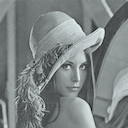
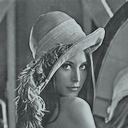
Black and white tweaks.
- Smoother behavior.
- Curves instead of affine transforms.
- Tests.
- Inner frame movement.

diff --git a/LTKit/LTKit/LTBWTonalityProcessor.mm b/LTKit/LTKit/LTBWTonalityProcessor.mm
@@ -3,24 +3,40 @@
 
 #import "LTBWTonalityProcessor.h"
 
-#import "LTBoxFilterProcessor.h"
+#import "LTBilateralFilterProcessor.h"
 #import "LTCGExtensions.h"
 #import "LTColorGradient.h"
 #import "LTGLKitExtensions.h"
+#import "LTOpenCVExtensions.h"
 #import "LTProgram.h"
 #import "LTShaderStorage+LTBWTonalityFsh.h"
 #import "LTShaderStorage+LTPassthroughShaderVsh.h"
 #import "LTTexture+Factory.h"
+#import "NSBundle+LTKitBundle.h"
 
 @interface LTGPUImageProcessor ()
 @property (strong, nonatomic) NSDictionary *auxiliaryTextures;
 @end
 
+@interface LTBWTonalityProcessor ()
+// Texture that holds LUT that encapsulates brightess, contrast, exposure and structure.
+@property (strong, nonatomic) LTTexture *toneLUT;
+@end
+
 @implementation LTBWTonalityProcessor
 
-static const CGFloat kSmoothDownsampleFactor = 6.0;
+// The follow matrices hold the curves data.
+static cv::Mat1b kIdentityCurve;
+static cv::Mat1b kPositiveBrightnessCurve;
+static cv::Mat1b kNegativeBrightnessCurve;
+static cv::Mat1b kPositiveContrastCurve;
+static cv::Mat1b kNegativeContrastCurve;
+
+static const CGFloat kSmoothDownsampleFactor = 4.0;
 
 static const GLKVector3 kColorFilterDefault = GLKVector3Make(0.299, 0.587, 0.114);
+
+static const ushort kLutSize = 256;
 
 - (instancetype)initWithInput:(LTTexture *)input output:(LTTexture *)output {
   LTProgram *program = [[LTProgram alloc] initWithVertexSource:[LTPassthroughShaderVsh source]
@@ -39,6 +55,21 @@ static const GLKVector3 kColorFilterDefault = GLKVector3Make(0.299, 0.587, 0.114
   return self;
 }
 
++ (void)initialize {
+  static dispatch_once_t onceToken;
+  dispatch_once(&onceToken, ^{
+    kIdentityCurve = LTLoadMatFromBundle([NSBundle LTKitBundle], @"IdentityCurve.png");
+    kPositiveBrightnessCurve = LTLoadMatFromBundle([NSBundle LTKitBundle],
+                                                   @"PositiveBrightnessCurve.png");
+    kNegativeBrightnessCurve = LTLoadMatFromBundle([NSBundle LTKitBundle],
+                                                   @"NegativeBrightnessCurve.png");
+    kPositiveContrastCurve = LTLoadMatFromBundle([NSBundle LTKitBundle],
+                                                 @"PositiveContrastCurve.png");
+    kNegativeContrastCurve = LTLoadMatFromBundle([NSBundle LTKitBundle],
+                                                 @"NegativeContrastCurve.png");
+  });
+}
+
 - (void)setDefaultValues {
   self.colorFilter = kColorFilterDefault;
   self.brightness = kDefaultBrightness;
@@ -55,9 +86,10 @@ static const GLKVector3 kColorFilterDefault = GLKVector3Make(0.299, 0.587, 0.114
   CGSize size = std::floor(CGSizeMake(width, height));
   LTTexture *smoothTexture = [LTTexture byteRGBATextureWithSize:size];
   
-  LTBoxFilterProcessor *smoother = [[LTBoxFilterProcessor alloc] initWithInput:input
+   LTBilateralFilterProcessor *smoother = [[LTBilateralFilterProcessor alloc] initWithInput:input
                                                                        outputs:@[smoothTexture]];
-  smoother.iterationsPerOutput = @[@3];
+  smoother.rangeSigma = 0.15;
+  smoother.iterationsPerOutput = @[@5];
   [smoother process];
   
   return smoothTexture;
@@ -72,26 +104,18 @@ static const GLKVector3 kColorFilterDefault = GLKVector3Make(0.299, 0.587, 0.114
 }
 
 LTBoundedPrimitivePropertyImplementWithCustomSetter(CGFloat, brightness, Brightness, -1, 1, 0, ^{
-  _brightness = brightness;
-  self[@"brightness"] = @(_brightness);
+  [self updateToneLUT];
 });
 
 LTBoundedPrimitivePropertyImplementWithCustomSetter(CGFloat, contrast, Contrast, -1, 1, 0, ^{
-  _contrast = contrast;
-  // Remap [-1, 0] -> [0, 1] and [0, 1] to [1, 2].
-  CGFloat remap = contrast < 0 ? contrast + 1 : 1 + contrast;
-  self[@"contrast"] = @(remap);
+  [self updateToneLUT];
 });
 
 LTBoundedPrimitivePropertyImplementWithCustomSetter(CGFloat, exposure, Exposure, -1, 1, 0, ^{
-  _exposure = exposure;
-  // Remap [-1, 1] -> [0.5, 2].
-  CGFloat remap = std::powf(2.0, exposure);
-  self[@"exposure"] = @(remap);
+  [self updateToneLUT];
 });
 
 LTBoundedPrimitivePropertyImplementWithCustomSetter(CGFloat, structure, Structure, -1, 1, 0, ^{
-  _structure = structure;
   // Remap [-1, 1] -> [0.25, 4].
   CGFloat remap = std::powf(4.0, structure);
   self[@"structure"] = @(remap);
@@ -106,6 +130,35 @@ LTBoundedPrimitivePropertyImplementWithCustomSetter(CGFloat, structure, Structur
   _colorGradientTexture = colorGradientTexture;
   NSMutableDictionary *auxiliaryTextures = [self.auxiliaryTextures mutableCopy];
   auxiliaryTextures[[LTBWTonalityFsh colorGradient]] = colorGradientTexture;
+  self.auxiliaryTextures = auxiliaryTextures;
+}
+
+- (void)updateToneLUT {
+  cv::Mat1b toneCurve(1, kLutSize);
+  
+  cv::Mat1b brightnessCurve(1, kLutSize);
+  if (self.brightness >= kDefaultBrightness) {
+    brightnessCurve = kPositiveBrightnessCurve;
+  } else {
+    brightnessCurve = kNegativeBrightnessCurve;
+  }
+  
+  cv::Mat1b contrastCurve(1, kLutSize);
+  if (self.contrast >= kDefaultContrast) {
+    contrastCurve = kPositiveContrastCurve;
+  } else {
+    contrastCurve = kNegativeContrastCurve;
+  }
+  
+  float brightness = std::abs(self.brightness);
+  float contrast = std::abs(self.contrast);
+  cv::LUT((1.0 - contrast) * kIdentityCurve + contrast * contrastCurve,
+          (1.0 - brightness) * kIdentityCurve + brightness * brightnessCurve,
+          toneCurve);
+  
+  toneCurve = toneCurve * std::pow(2.0, self.exposure);
+  NSMutableDictionary *auxiliaryTextures = [self.auxiliaryTextures mutableCopy];
+  auxiliaryTextures[[LTBWTonalityFsh toneLUT]] = [LTTexture textureWithImage:toneCurve];
   self.auxiliaryTextures = auxiliaryTextures;
 }
 

diff --git a/LTKit/LTKit/LTBWProcessor.mm b/LTKit/LTKit/LTBWProcessor.mm
@@ -297,6 +297,11 @@ LTBoundedPrimitivePropertyImplementWithCustomSetter(CGFloat, grainAmplitude, Gra
 #pragma mark -
 
 - (void)setOuterFrameWidth:(CGFloat)outerFrameWidth {
+  // Update the dependent inner frame.
+  _innerFrameWidth = outerFrameWidth + self.innerFrameWidth - self.outerFrameWidth;
+  self.innerFrameProcessor.width = _innerFrameWidth;
+  [self.innerFrameProcessor process];
+  // Update outer frame.
   self.outerFrameProcessor.width = outerFrameWidth;
   [self.outerFrameProcessor process];
 }
@@ -324,7 +329,7 @@ LTBoundedPrimitivePropertyImplementWithCustomSetter(CGFloat, grainAmplitude, Gra
 }
 
 - (void)setOuterFrameNoise:(LTTexture *)outerFrameNoise {
-  // Update details LUT texture in auxiliary textures.
+  // Update noise texture in auxiliary textures.
   _outerFrameNoise = outerFrameNoise;
   NSMutableDictionary *auxiliaryTextures = [self.auxiliaryTextures mutableCopy];
   auxiliaryTextures[[LTBWProcessorFsh grainTexture]] = outerFrameNoise;
@@ -397,7 +402,7 @@ LTBoundedPrimitivePropertyImplementWithCustomSetter(CGFloat, grainAmplitude, Gra
 }
 
 - (void)setInnerFrameNoise:(LTTexture *)innerFrameNoise {
-  // Update details LUT texture in auxiliary textures.
+  // Update noise texture in auxiliary textures.
   _innerFrameNoise = innerFrameNoise;
   NSMutableDictionary *auxiliaryTextures = [self.auxiliaryTextures mutableCopy];
   auxiliaryTextures[[LTBWProcessorFsh grainTexture]] = innerFrameNoise;

diff --git a/LTKit/LTKitTests/LTBWProcessorSpec.mm b/LTKit/LTKitTests/LTBWProcessorSpec.mm
@@ -144,7 +144,7 @@ context(@"properties", ^{
 });
 
 context(@"processing", ^{
-  sit(@"should return the input black and white image whithout changes on default parameters", ^{
+  sit(@"should return correct black and white image", ^{
     LTTexture *input = [LTTexture textureWithImage:LTLoadMat([self class], @"Meal.jpg")];
     LTTexture *output = [LTTexture byteRGBATextureWithSize:std::round(input.size * 0.25)];
     
@@ -201,8 +201,13 @@ context(@"processing", ^{
     processor.colorGradientTexture = [colorGradient textureWithSamplingPoints:256];;
     
     [processor process];
-    
     cv::Mat image = LTLoadMat([self class], @"MealBWProcessor.png");
+    expect($(output.image)).to.beCloseToMat($(image));
+    
+    processor.outerFrameWidth = processor.outerFrameWidth + 5.0;
+    
+    [processor process];
+    image = LTLoadMat([self class], @"MealBWProcessorWideFrame.png");
     expect($(output.image)).to.beCloseToMat($(image));
   });
 });

diff --git a/LTKit/LTKitTests/LTBWTonalityProcessorSpec.mm b/LTKit/LTKitTests/LTBWTonalityProcessorSpec.mm
@@ -131,7 +131,7 @@ context(@"processing", ^{
     expect(LTFuzzyCompareMat(greenDeltaOutput, processed.texture.image)).to.beTruthy();
   });
   
-  it(@"should create correct conversion", ^{
+  sit(@"should create correct conversion", ^{
     LTTexture *lena = [LTTexture textureWithImage:LTLoadMat([self class], @"Lena128.png")];
     LTTexture *lenaOutput = [LTTexture textureWithPropertiesOf:lena];
     
@@ -155,8 +155,8 @@ context(@"processing", ^{
     
     LTBWTonalityProcessor *tone = [[LTBWTonalityProcessor alloc] initWithInput:lena
                                                                         output:lenaOutput];
-    tone.exposure = -0.1520;
-    tone.structure = 0.2925;
+    tone.exposure = -0.2;
+    tone.structure = 0.5;
     tone.brightness = 0.1;
     tone.contrast = -0.2;
     tone.colorFilter = GLKVector3Make(0.1, 0.1, 1.0);
